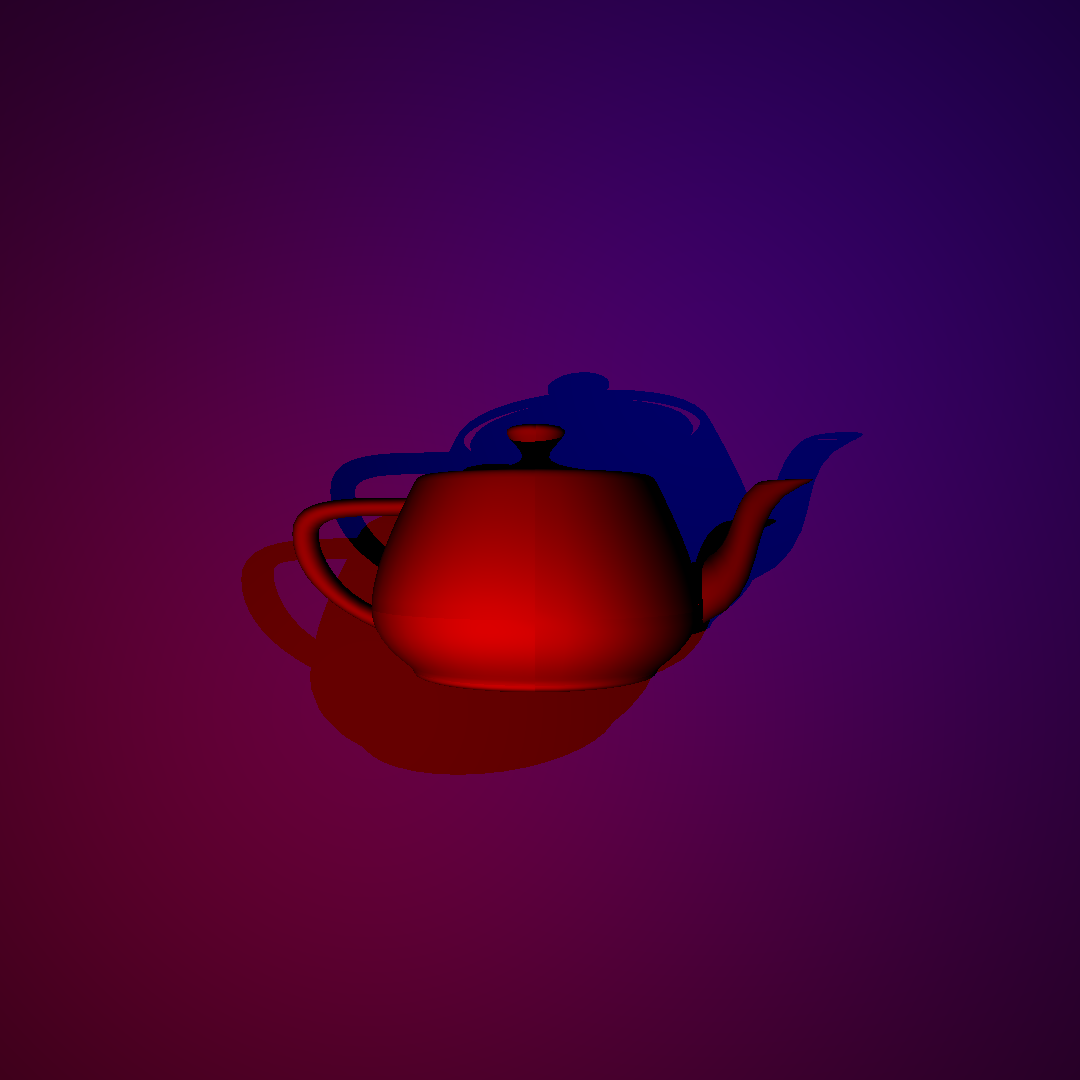
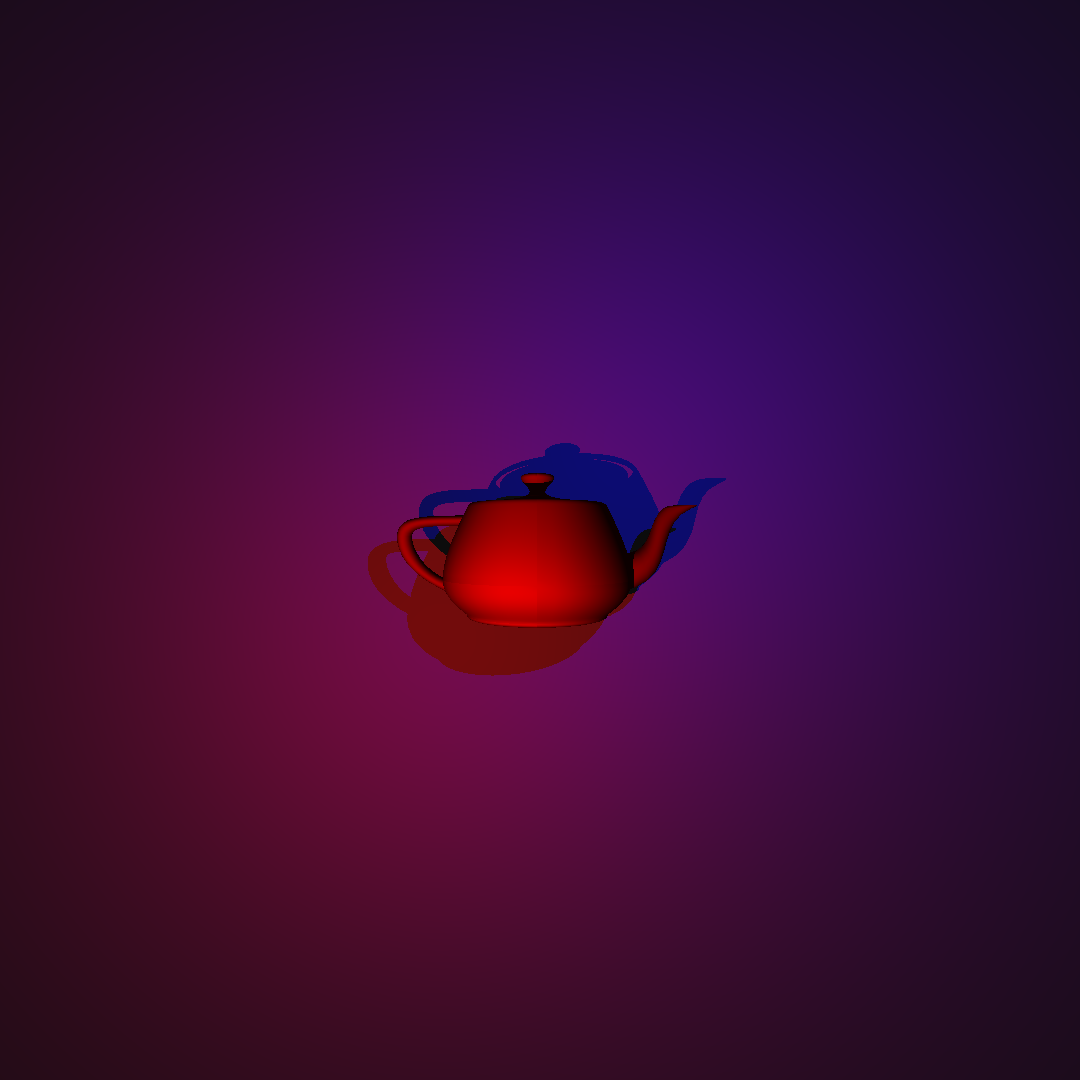
Add ambient lighting and widen camera FOV
Introduce a small ambient term (static float ambient = 0.05f) and initialize litColor with objectColor * ambient so surfaces receive a base illumination. Increase camera field of view from 60 to 90 degrees for a wider view. Updated rendered output image (output/render.png) to reflect the visual changes.

Changed region(s): [[0.2139, 0.3361, 0.7944, 0.7333], [0.6417, 0.0, 1.0, 0.3667], [0.0, 0.6417, 0.3667, 1.0]]

diff --git a/Project/src/raytracer/renderer/Raytracer.java b/Project/src/raytracer/renderer/Raytracer.java
@@ -32,6 +32,7 @@ public class Raytracer {
     private final int threadCount;
     private final int tileSize;
     static final double SHADOW_EPSILON = 1e-4;
+    static final float ambient =  0.05f;
 
     public Raytracer(Scene scene, Camera camera, int width, int height, Color backgroundColor) {
         this(scene, camera, width, height, backgroundColor, Math.max(1, Runtime.getRuntime().availableProcessors()), 32);
@@ -143,7 +144,7 @@ public class Raytracer {
 
 
         Color objectColor = closest.getObject().getColor();
-        Color litColor = Color.BLACK; //(0,0,0 so well just add whatever color it hits for contributions)
+        Color litColor = objectColor.multiply(ambient); //ambient term
 
         for (Light light : scene.getLights()) {
             LightSample sample = light.sampleAt(closest.getPoint());

diff --git a/Project/src/Main.java b/Project/src/Main.java
@@ -24,7 +24,7 @@ public class Main {
         Point3D cameraPosition = new Point3D(0, 0, .5);
         Point3D lookAt = new Point3D(0, 0, -1); //target location
         Vector3D worldUp = new Vector3D(0, 1, 0);//direction
-        double fov = 60;//fov in deg
+        double fov = 90;//fov in deg
         double nearPlane = 0.01;
         double farPlane = 1000.0;
 